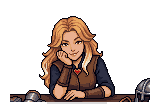
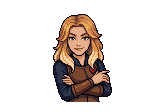
WIP: библиотека в ратуше (Жанет — окно-справочник о механике, ряды полок, студенты), окна Полли/Захарии/Шахбану — свои позы и эмоции за стойкой, бабушки на скамейке одной картинкой, столы в баре, фонтан и клумбы непроходимы
Claude-Session: https://claude.ai/code/session_01NZaKJV7VXAQHZfGwN3MbH5

Changed region(s): [[0.0625, 0.1071, 0.9375, 0.9375]]

diff --git a/src/story/dialogues.js b/src/story/dialogues.js
@@ -2,7 +2,9 @@
 // Формат описан в src/dialogue.js. who — кто говорит (ключ из SPEAKERS), narrator — рассказчик без портрета.
 // mood — настроение для нарисованного портрета (у рыцаря: tired — прищур; nohelm — без шлема, НЕ использовать: лицо Найта — только пасхалка, решение владельца; без mood — обычный), см. assets/portraits/.
 
-import { TOWNSFOLK } from '../config.js';
+import { TOWNSFOLK, ITEMS } from '../config.js';
+// раздел вещи для справочника Жанет: слот, а у вещей без слота — «припасы» (use) и «артефакты»
+const ITEMS_SLOT = id => ITEMS[id].slot ?? (ITEMS[id].use ? 'use' : ITEMS[id].artifact ? 'artifact' : null);
 
 export const SPEAKERS = {
   narrator: { name: '' },
@@ -58,6 +60,10 @@ export const DIALOGUES = {
   t_vil_15: [{ who: 'town_vil_15', text: '[черновик] Всё есть, а чего нет — завтра будет.' }],
   t_vils_0: [{ who: 'town_vils_0', text: '[черновик] Сядь, отдохни. Ноги не казённые.' }],
   t_vils_1: [{ who: 'town_vils_1', text: '[черновик] Тише, я на самом интересном месте.' }],
+  // бабушки на скамейке у ратуши — одна картинка (владелец 23.10: «чтобы сидели нормально на скамейке»)
+  t_vils_pair: [{ who: 'town_vils_pair', text: '[черновик] — Опять рыцарь. — Ты посмотри, латы-то нечищеные! — В наше время рыцари хоть кланялись…' }],
+  // студент в библиотеке (владелец 23.10)
+  t_lib_student: [{ who: 'town_lib_student', text: 'Я не понимаю ничего в экспериментальной магии 2. Ненавижу проклятодинамику.' }],
   t_vils_2: [{ who: 'town_vils_2', text: '[черновик] Хороший день. Даже фонтан сегодня журчит веселее.' }],
   t_vils_3: [{ who: 'town_vils_3', text: '[черновик] В мои годы рыцари были пониже. И повежливее.' }],
   t_vils_4: [{ who: 'town_vils_4', text: '[черновик] Жду кое-кого. Уже третий час.' }],
@@ -669,7 +675,9 @@ export const SHOPS = {
   // оружейная (владелец, 22.10): Полли — оружие и доспехи, её знак — червонный доспех; Захария — артефакты, крестовые сапоги.
   // Реплики — [черновик] (тексты камео напишет владелец)
   polly: {
-    art: { scene: 'assets/shop/armory_scene.png', bust: 'assets/shop/polly', moods: ['default'], flames: [[22, 30, 0.9], [90, 70, 0.6]] },
+    // окно (владелец 23.10): своя поза для разговора — руки скрещены; стойка (fg) — поверх, Полли за ней
+    art: { scene: 'assets/shop/armory_scene.png', fg: 'assets/shop/armory_fg.png', at: [48, 129], bust: 'assets/shop/polly', moods: ['default', 'happy', 'sulky', 'blink'], flames: [[22, 30, 0.9], [90, 70, 0.6]] },
+    moods: { bought: 'happy', poor: 'sulky', owned: 'sulky', soon: 'sulky' },   // здоровается с усмешкой (обычное лицо), смеётся на покупке
     hello: '[черновик] О, рыцарь в потёртых латах! Заходи — подберём тебе что-нибудь, в чём не стыдно умирать. Шучу. Не умирай.',
     menu: '[черновик] Что смотрим?',
     items: [
@@ -691,7 +699,9 @@ export const SHOPS = {
     bye: '[черновик] Заходи, если что-то сломаешь. Или кого-то.',
   },
   zacharia: {
-    art: { scene: 'assets/shop/armory_scene.png', bust: 'assets/shop/zacharia', moods: ['default'], flames: [[22, 30, 0.9], [60, 150, 0.7]] },
+    // окно: Захария показывает светящийся амулет; смеётся, удивляется
+    art: { scene: 'assets/shop/armory_scene.png', fg: 'assets/shop/armory_fg.png', at: [48, 129], bust: 'assets/shop/zacharia', moods: ['default', 'happy', 'surprised', 'blink'], flames: [[22, 30, 0.9], [60, 150, 0.7]] },
+    moods: { hello: 'happy', bought: 'happy', poor: 'surprised', owned: 'surprised' },
     hello: '[черновик] А-а, гость! Смотри, только не дыши на кристаллы — они обидчивые.',
     menu: '[черновик] Что тебе приглянулось?',
     items: [
@@ -713,7 +723,9 @@ export const SHOPS = {
   },
   // кофейня «Vertrauen» (владелец): окно как у Лики — виды кофе, бусты, пара чаёв, матча. Бариста Шахбану — облик временный
   cafe: {
-    art: { scene: 'assets/shop/cafe_scene.png', bust: 'assets/shop/shahbanu', moods: ['default'], flames: [[200, 60, 0.8]] },
+    // окно: Шахбану с чашкой за стойкой (кофейники стойки — поверх)
+    art: { scene: 'assets/shop/cafe_scene.png', fg: 'assets/shop/cafe_fg.png', at: [62, 101], bust: 'assets/shop/shahbanu', moods: ['default', 'happy', 'worried', 'blink'], flames: [[200, 60, 0.8]] },
+    moods: { hello: 'happy', bought: 'happy', poor: 'worried' },
     hello: '[черновик] Добро пожаловать в «Vertrauen»! Сегодня кофе крепкий, а люди — добрые. Ну, почти все.',
     menu: '[черновик] Что тебе налить?',
     items: [
@@ -732,6 +744,48 @@ export const SHOPS = {
     ],
     bought: '[черновик] Держи, горячее!', owned: '[черновик] Уже есть.', poor: '[черновик] Не хватает. Приходи ещё — я подожду.', soon: '[черновик] Скоро будет.',
     bye: '[черновик] Заходи ещё!',
+  },
+  // библиотека в ратуше (владелец 23.10): библиотекарша Жанет ничего не продаёт — рассказывает о механике игры
+  // (разделы — guide; вещи из ITEMS и ITEM_TEXTS, приёмы и бой — facts). Реплики — [черновик]
+  janet: {
+    art: { scene: 'assets/shop/library_scene.png', fg: 'assets/shop/library_fg.png', at: [48, 161], bust: 'assets/shop/janet', moods: ['default', 'happy', 'surprised', 'blink'], flames: [[33, 108, 0.8], [93, 162, 0.7], [44, 188, 1.0], [187, 52, 1.0]] },
+    hello: '[черновик] Тсс… это библиотека. Ой, рыцарь! Нечасто вы к нам заходите. Чем помочь?',
+    menu: '[черновик] О чём рассказать?',
+    unknown: '[черновик] Об этом в книгах пока пусто. Найдёшь — приходи, разберёмся вместе.',
+    moods: { hello: 'surprised', unknown: 'surprised' },
+    items: [],
+    setText: {
+      marauder: '[черновик] Мародёры носили одно и то же — платок, куртку и мягкие сапоги. Собери всё — получишь их снаряжение, в нём шаг легче.',
+      aces: '[черновик] Четыре туза — старая история. Знаки разошлись по мастерам города. Говорят, вместе они что-то значат.',
+    },
+    guide: [
+      { id: 'g_weapon', name: 'Оружие', icon: 'sword_old', intro: '[черновик] Оружие. Меч, рапира, кинжал — у каждого свой нрав. Смена — Q.', has: id => ITEMS_SLOT(id) === 'weapon' },
+      { id: 'g_armor', name: 'Броня', icon: 'armor_old', intro: '[черновик] Броня даёт щит: он принимает удар первым и сам восстанавливается, пока тебя не бьют.', has: id => ['armor', 'head', 'feet'].includes(ITEMS_SLOT(id)) },
+      { id: 'g_amulet', name: 'Амулеты и артефакты', icon: 'diamond_ace', intro: '[черновик] Амулеты — моя любимая полка. Каждый работает по-своему.', has: id => ['amulet', 'artifact'].includes(ITEMS_SLOT(id)) },
+      { id: 'g_sets', name: 'Комплекты', icon: 'mar_jacket', intro: '[черновик] Некоторые вещи сильнее вместе. Вот что я знаю о комплектах.', mood: 'happy', sets: true },
+      { id: 'g_skills', name: 'Навыки и заклинания', icon: 'skill_cleave', intro: '[черновик] Навыки учат по свиткам. Колесо мыши — приём, у каждого своя перезарядка.', has: id => ['skill', 'spell'].includes(ITEMS_SLOT(id)) || /^scroll_/.test(id) },
+      { id: 'g_use', name: 'Припасы', icon: 'potion', intro: '[черновик] Зелья, бинты и кофе Шахбану. Пить — H.', has: id => ITEMS_SLOT(id) === 'use' },
+      { id: 'g_fight', name: 'Бой', icon: 'helm_old', intro: '[черновик] О бое у нас целый стеллаж. Самое главное — высота удара.', facts: [
+        { name: 'Высота удара', text: '[черновик] Курсор выше рыцаря — удар сверху, ниже — снизу, рядом — посередине. Враг перед ударом показывает свою высоту значком.' },
+        { name: 'Защита и парирование', text: '[черновик] Держи ПКМ — защита на выбранной высоте. Поставишь её в самый миг удара — идеальное парирование: враг открыт.' },
+        { name: 'Рывок и кувырок', text: '[черновик] Пробел — рывок. От удара можно уйти назад или перекатиться.' },
+        { name: 'Приём оружия', text: '[черновик] Колесо мыши — особый приём: у меча вихрь, у рапиры восьмёрка. Потом приём отдыхает четыре секунды.' },
+        { name: 'Жизнь и щит', text: '[черновик] Щит от брони принимает урон первым и сам восстанавливается, если тебя какое-то время не бьют. Жизнь — нет: её лечат зелья, бинты и отдых.' },
+        { name: 'Места отдыха', text: '[черновик] Скамья, диван, камин, костёр — сядь, и раны затянутся. Там же игра сохраняется.' },
+      ] },
+    ],
+    talk: [
+      { topic: '[черновик] Кто ты?', lines: [
+        { text: '[черновик] Жанет. Я здесь библиотекарь — вот уже третий год.', mood: 'happy' },
+        { text: '[черновик] Если чего-то не знаешь — спроси. Если и я не знаю — значит, найдём вместе.' },
+      ] },
+      { topic: '[черновик] Что это за место?', lines: [
+        { text: '[черновик] Библиотека при ратуше. Приём в ратуше — по средам, а книги — каждый день.' },
+        { text: '[черновик] Студенты сидят тут до ночи. Особенно перед экзаменами по экспериментальной магии.', mood: 'happy' },
+      ] },
+    ],
+    bought: '', owned: '', poor: '', soon: '',
+    bye: '[черновик] Возвращайся. И не загибай уголки страниц!',
   },
 };
 

diff --git a/src/main.js b/src/main.js
@@ -2864,7 +2864,7 @@ function update(dt) {
     const npc = nearNpc();
     const d = game.doorNear;
     const near = nearChest();
-    hint(near ? (near.pick ? `E — взять: ${ITEMS[near.pick].name}` : 'E — открыть сундук') : npc ? `E — ${npc.def.shop ? 'лавка' : npc.def.cat && game.flags.fujin_fed ? 'погладить' : npc.def.verb ?? 'говорить'}: ${npc.def.alias && !game.flags[npc.def.known] ? npc.def.alias : npc.def.name}` : game.pathNear ? pathHint(game.pathNear) : d ? (d.locked ? `${d.locked}` : d.fall || d.stairs ? `W — ${d.name}` : `W у двери — войти: ${d.name ?? 'дверь'}`) : nearAltar() ? (canSanctify() ? 'E — освятить воду в чаше' : game.flags[nearAltar().altar] && cupOnAltar() ? 'E — взять чашу с алтаря' : game.flags[nearAltar().altar] ? 'E — осмотреть: алтарь' : hasItem('silver_cup') ? 'E — поставить Серебряную чашу на алтарь' : 'E — осмотреть: алтарь') : nearRest() ? `E — отдохнуть ${nearRest().rest.name} (сохранение)` : nearLook()?.fill && hasItem('silver_cup') && !game.flags[nearLook().fill] ? 'E — набрать воды в чашу' : nearLook() ? `E — осмотреть: ${nearLook().name}${nearLook().type === 'cracks' ? ' · ЛКМ — ударить' : ''}` : hintWalk(), nearVibe());
+    hint(near ? (near.pick ? `E — взять: ${ITEMS[near.pick].name}` : 'E — открыть сундук') : npc ? `E — ${npc.def.shop ? npc.def.verb ?? 'лавка' : npc.def.cat && game.flags.fujin_fed ? 'погладить' : npc.def.verb ?? 'говорить'}: ${npc.def.alias && !game.flags[npc.def.known] ? npc.def.alias : npc.def.name}` : game.pathNear ? pathHint(game.pathNear) : d ? (d.locked ? `${d.locked}` : d.fall || d.stairs ? `W — ${d.name}` : `W у двери — войти: ${d.name ?? 'дверь'}`) : nearAltar() ? (canSanctify() ? 'E — освятить воду в чаше' : game.flags[nearAltar().altar] && cupOnAltar() ? 'E — взять чашу с алтаря' : game.flags[nearAltar().altar] ? 'E — осмотреть: алтарь' : hasItem('silver_cup') ? 'E — поставить Серебряную чашу на алтарь' : 'E — осмотреть: алтарь') : nearRest() ? `E — отдохнуть ${nearRest().rest.name} (сохранение)` : nearLook()?.fill && hasItem('silver_cup') && !game.flags[nearLook().fill] ? 'E — набрать воды в чашу' : nearLook() ? `E — осмотреть: ${nearLook().name}${nearLook().type === 'cracks' ? ' · ЛКМ — ударить' : ''}` : hintWalk(), nearVibe());
   } else if (game.arena?.open) {
     const d = game.doorNear;
     hint(d ? (d.locked ? d.locked : d.fall || d.stairs ? `W — ${d.name}` : `W у двери — войти: ${d.name ?? 'дверь'}`) : game.time - game.arena.t0 < 4 ? 'Можно не драться — проскочи рывком (пробел) сквозь врагов' : '');
@@ -2892,7 +2892,8 @@ function update(dt) {
   const px0 = p.x, pz0 = p.z;
   p.update(dt, controls());
   // мебель, сквозь которую не пройти (block: [полуширина, глубина] у предмета; бар — вид сверху, v0.98): шаг назад по оси, что упёрлась
-  for (const pr of room().props ?? []) {
+  // blocks у комнаты — то же для нарисованного на картине (клумбы, кадки у ратуши): { x, z, block }
+  for (const pr of [...(room().props ?? []), ...(room().blocks ?? [])]) {
     if (!pr.block) continue;
     const inside = (x, z) => Math.abs(x - pr.x) < pr.block[0] && z > pr.z - pr.block[1] && z < pr.z + 2;
     if (!inside(p.x, p.z)) continue;
@@ -3978,7 +3979,7 @@ function artFor(id) {
   const a = SHOPS[id]?.art;
   if (shopArts[id]) return shopArts[id];
   const img = src => Object.assign(new Image(), { src });
-  const out = shopArts[id] = { scene: img(a?.scene ?? 'assets/shop/scene.png') };
+  const out = shopArts[id] = { scene: img(a?.scene ?? 'assets/shop/scene.png'), fg: a?.fg && img(a.fg) };
   for (const m of a?.moods ?? SHOP_MOODS) out[m] = img(`${a?.bust ?? 'assets/shop/lika'}_${m}.png`);
   return out;
 }
@@ -3994,7 +3995,9 @@ function drawShopScene(t) {
   const blink = (!sh.mood || sh.mood === 'default') && (t % 4.3) < 0.13;
   const bust = shopArt[blink ? 'blink' : sh.mood] ?? shopArt.default;
   const im = ok(bust) ? bust : shopArt.default;
-  if (ok(im)) c.drawImage(im, 48, 109 + (Math.sin(t * 1.8) > 0.6 ? -1 : 0));
+  const [bx, by] = sh.data.art?.at ?? [48, 109];   // где стоит продавец; стойка (fg) рисуется поверх — он за ней, а не перед
+  if (ok(im)) c.drawImage(im, bx, by + (Math.sin(t * 1.8) > 0.6 ? -1 : 0));
+  if (ok(shopArt.fg)) c.drawImage(shopArt.fg, 0, 0);
   // огонь свечей и фонаря дрожит, вокруг — тёплый свет
   c.save();
   c.globalCompositeOperation = 'lighter';
@@ -4068,6 +4071,7 @@ function shopView(view) {
 function shopOptions() {
   const sh = game.shop, d = sh.data;
   const back = { label: 'Назад', go: () => shopView('main') };
+  if (d.guide) return guideOptions(sh, d, back);
   if (sh.view === 'buy') return [
     ...d.items.map(it => {
       const item = ITEMS[it.id];
@@ -4085,6 +4089,37 @@ function shopOptions() {
   return [
     { label: 'Купить', go: () => shopView('buy') },
     { label: 'Поговорить', go: () => shopView('talk') },
+    { label: 'Уйти', go: closeShop },
+  ];
+}
+
+// библиотекарша Жанет (владелец 23.10): ничего не продаёт — рассказывает о механике игры по разделам.
+// Вещи, которых рыцарь ещё не видел (нет в сумке и не продаются в лавках), — «???»: книги о них Жанет пока не нашла
+function guideSeen(id) {
+  return owns(id) || Object.values(SHOPS).some(s => s.items?.some(it => it.id === id));
+}
+function guideEntries(cat) {
+  if (cat.facts) return cat.facts.map(f => ({ label: f.name, icon: f.icon, text: f.text }));
+  if (cat.sets) return Object.entries(SETS).map(([k, st]) => {
+    const seen = st.pieces.some(guideSeen);
+    return { label: seen ? st.name : '???', icon: seen ? st.pieces[0] : null, text: seen ? `${game.shop.data.setText?.[k] ?? ''} Части: ${st.pieces.map(id => ITEMS[id].name).join(', ')}.${st.worn ? ' Вместе — ' + st.worn + '.' : ''}` : null };
+  });
+  return Object.keys(ITEMS).filter(cat.has).map(id => {
+    const seen = guideSeen(id);
+    return { label: seen ? ITEMS[id].name : '???', icon: seen ? id : null, text: seen ? (ITEM_TEXTS[id] ?? ITEMS[id].name) : null };
+  });
+}
+function guideOptions(sh, d, back) {
+  if (sh.view === 'talk') {
+    if (sh.queue?.length) return [{ label: 'Дальше ▸', go: nextShopLine }, { label: 'Хватит', go: () => shopView('talk') }];
+    return [...d.talk.map(t => ({ label: t.topic, go: () => { sh.queue = t.lines.slice(); nextShopLine(); } })), back];
+  }
+  const cat = d.guide.find(c => c.id === sh.view);
+  if (cat) return [...guideEntries(cat).map(e => ({ label: e.label, icon: e.icon, muted: !e.text, guide: true,
+    go: () => shopSay(e.text ?? d.unknown, e.text ? null : d.moods?.unknown) })), back];
+  return [
+    { label: 'Поговорить', go: () => shopView('talk') },
+    ...d.guide.map(c => ({ label: c.name, icon: c.icon, go: () => { shopView(c.id); shopSay(c.intro, c.mood); } })),
     { label: 'Уйти', go: closeShop },
   ];
 }
@@ -4111,7 +4146,7 @@ function buyItem(it) {
 }
 
 function renderShop() {
-  ui.shopCoins.textContent = `Монеты: ${game.coins}`;
+  ui.shopCoins.textContent = game.shop.data.guide ? '' : `Монеты: ${game.coins}`;
   ui.shopMenu.innerHTML = '';
   ui.shopMenu.classList.toggle('dense', shopOptions().length > 8);
   shopOptions().forEach((o, i) => {
@@ -4119,7 +4154,7 @@ function renderShop() {
     b.type = 'button';
     const picked = o.hover && game.shop.sel === i;
     b.className = (o.muted ? 'muted' : '') + (picked ? ' sel' : '');
-    const right = picked && !o.muted ? `купить · ${o.right}` : o.right;
+    const right = picked && !o.muted && o.right ? `купить · ${o.right}` : o.right;
     b.innerHTML = `<span class="item-name">${itemIcon(o.icon)}${i + 1}. ${o.label}</span>${right ? `<span>${right}</span>` : ''}`;
     // v0.91 (отзыв тестера: «нажала — сразу купилось»): товар — первый клик выбирает и показывает описание, второй — покупка
     b.addEventListener('pointerdown', e => { e.stopPropagation(); e.preventDefault(); shopPick(o, i); });
@@ -5593,4 +5628,4 @@ requestAnimationFrame(frame);
 
 // для автотестов в браузере
 window.knightNight = game;
-window.knightNightDebug = { groundY, input, ROOMS, bgFor, musicInfo, startTalk, readPage };   // для ботов-тестеров
+window.knightNightDebug = { groundY, input, ROOMS, bgFor, musicInfo, startTalk, readPage, openShop: (shop, name) => openShop({ def: { shop, name } }) };   // для ботов-тестеров

diff --git a/src/config.js b/src/config.js
@@ -579,6 +579,8 @@ export const TOWNSFOLK = [
   ['vils_13', 'Горожанка', 1],
   ['vils_14', 'Подмастерье', 1],
   ['vils_15', 'Старушка', 1],
+  ['vils_pair', 'Бабушки', 1],      // две бабушки на скамейке — одна картинка со скамьёй (владелец 23.10)
+  ['lib_student', 'Студент', 1],    // студент в библиотеке над бумагами (владелец 23.10)
 ];
 for (const [img, name, sit] of TOWNSFOLK) NPC_TYPES['t_' + img] = { name, img, talk: 't_' + img, still: !!sit };
 // камео (v0.98): спрайт в позе по месту + портрет в разговоре (по фото владельца; одежда — под средневековье)
@@ -595,6 +597,8 @@ Object.assign(NPC_TYPES, {
   lika_town: { name: 'Лика', face: 'lika', short: true, bob: true, coat: true, sprite: 'lika', talk: 'lika_town',
     colors: { armor: '#574f44', armorDark: '#3a352d', tabard: '#797260', belt: '#2d2a24', helm: '#e7bd9e', visor: '#2b2e38', hair: '#2b2e38', hairLight: '#3d4150', blush: '#bb6554', boots: '#2d2a24', blade: '#b9c2cc', hilt: '#6b4532' } },
   cam_lucia: { name: 'Люция', img: 'cam_lucia_tel', imgNight: 'cam_lucia_up', imgDx: 26, still: true, faceRight: true, talk: 'lucia_talk' },   // Люция у телескопа — одна картинка с телескопом (правка эскиза рядом с рыцарем)
+  // библиотекарша Жанет (владелец 23.10, по фото): у стола в библиотеке; E — окно-справочник о механике игры
+  janet: { name: 'Жанет', img: 'cam_janet', still: true, faceRight: true, shop: 'janet', verb: 'говорить' },
   cam_merc: { name: 'Виктор', img: 'cam_merc', still: true, faceRight: true, talk: 'merc_talk' },   // сюжетный: побочные задания позже
 });
 
@@ -1171,7 +1175,7 @@ export const ROOMS = {
     doors: [
       { id: 'bar', x: 246, kind: 'painted', leaf: [236, 86, 21, 34], mat: { color: '#8a3b2e', dark: '#4a1f1a', light: '#c9774a' }, to: 'town_bar', at: { path: 'out' }, name: 'Бар Härtezeichen' },
       { id: 'armory', x: 709, kind: 'painted', leaf: [694, 86, 30, 34], mat: { color: '#3b4a6a', dark: '#1f2638', light: '#8a9ac0', w: 32 }, to: 'town_armory', name: 'Оружейная' },
-      { id: 'hall', x: 481, kind: 'painted', leaf: [471, 84, 21, 30], locked: 'Ратуша закрыта: «Приём — по средам»' , mat: { color: '#7a2a2a', dark: '#3a1414', light: '#c0a060', w: 28 }, to: 'town_square', name: 'Ратуша' },
+      { id: 'hall', x: 481, kind: 'painted', leaf: [471, 84, 21, 30], mat: { color: '#7a2a2a', dark: '#3a1414', light: '#c0a060', w: 28 }, to: 'town_library', at: { path: 'out' }, name: 'Ратуша · библиотека' },
     ],
     paths: [
       { id: 'down', x: [36, 96], z: [26, 44], keys: ['depthOut'], name: 'Лестница вниз, к развилке', to: 'town_cross', at: { path: 'up' }, blend: true,
@@ -1184,20 +1188,22 @@ export const ROOMS = {
       { type: 'objimg', img: 'sign_bar', x: 247, y: 91 },   // вывеска бара: табличка PixelLab + надпись шрифтом Pirata One (OFL)
       { type: 'objimg', img: 'sign_flowers', x: 132, y: 88 },   // кофейня переехала на набережную — у дома слева теперь цветочная лавка
     ],
+    // клумбы и кадки с деревьями у ратуши нарисованы на картине — по ним не ходят (владелец 23.10)
+    blocks: [{ x: 432, z: 10, block: [18, 10] }, { x: 531, z: 10, block: [16, 10] }, { x: 409, z: 9, block: [7, 9] }, { x: 554, z: 9, block: [8, 9] }],
     props: [
       { type: 'bar_table', x: 292, z: 5 },   // второй столик бара снаружи
       { type: 'pub_table', x: 204.5, z: 5.4 },   // столик Иэна и Ксандры
-      { type: 'fountain', x: 481, z: 26 },   // посередине площади, перед ратушей (владелец)
-      { type: 'town_bench', x: 380, z: 4 }, { type: 'town_bench', x: 790, z: 4 },
+      { type: 'fountain', x: 481, z: 26, block: [19, 11] },   // посередине площади, перед ратушей (владелец); сквозь не пройти
+      { type: 'town_bench', x: 790, z: 4 },
       { type: 'streetlamp', x: 320, z: 44 }, { type: 'streetlamp', x: 640, z: 44 },   // фонари на стыках кусков картины
     ],
     npcs: [
       { type: 'cam_glasses', x: 187, z: 5.5, facing: 1 }, { type: 'cam_redhead', x: 222, z: 5.6, facing: -1 },   // Иэн и Ксандра у бара
       { type: 't_vils_8', x: 280, z: 5.5, facing: 1 }, { type: 't_vils_5', x: 300, z: 5.5 },
-      { type: 't_vils_1', x: 374, z: 4.5 }, { type: 't_vils_6', x: 388, z: 4.5 }, { type: 't_vils_13', x: 790, z: 4.5 },
+      { type: 't_vils_pair', x: 381, z: 4.5 }, { type: 't_vils_13', x: 790, z: 4.5 },
       { type: 't_vil_2', x: 300, z: 26 }, { type: 't_vil_7', x: 560, z: 30 }, { type: 't_vil_9', x: 620, z: 34 },
       { type: 't_vil_12', x: 600, z: 20 }, { type: 't_vil_0', x: 840, z: 14 }, { type: 't_vil_3', x: 140, z: 20 },
-      { type: 't_folk_1', x: 540, z: 12 }, { type: 't_folk_3', x: 108, z: 8 }, { type: 't_folk_11', x: 660, z: 24 }, { type: 't_folk_14', x: 318, z: 8 },
+      { type: 't_folk_1', x: 584, z: 16 }, { type: 't_folk_3', x: 108, z: 8 }, { type: 't_folk_11', x: 660, z: 24 }, { type: 't_folk_14', x: 318, z: 8 },
       { type: 'lika_town', x: 744, z: 6, facing: -1 },   // Лика — у входа в оружейную
     ],
   },
@@ -1214,12 +1220,35 @@ export const ROOMS = {
     props: [
       { type: 'bar2_table0', x: 67, z: 37, block: [16, 10] }, { type: 'bar2_table1', x: 253, z: 35, block: [16, 10] },
       { type: 'bar2_table2', x: 117, z: 64, block: [16, 10] }, { type: 'bar2_table3', x: 207, z: 65, block: [16, 10] },
+      // ещё столики (владелец 23.10: «бар пустоватый»)
+      { type: 'bar2_table1', x: 36, z: 76, block: [16, 10] }, { type: 'bar2_table0', x: 288, z: 76, block: [16, 10] }, { type: 'bar2_table2', x: 282, z: 14, block: [16, 10] },
     ],
     npcs: [
       { type: 'bartender', x: 165, z: 0, lift: 25 },   // за стойкой
       { type: 'cam_merc', x: 86, z: 1, facing: 1 },   // Виктор — у стойки слева
       { type: 't_vils_12', x: 244, z: 35.5, facing: 1 }, { type: 't_vils_2', x: 263, z: 35.5 },
       { type: 't_vils_14', x: 108, z: 64.5, facing: 1 }, { type: 't_vils_4', x: 198, z: 65.5, facing: 1 }, { type: 't_vils_8', x: 217, z: 65.5 },
+      { type: 't_vils_10', x: 27, z: 76.5, facing: 1 }, { type: 't_vils_3', x: 297, z: 76.5 }, { type: 't_vils_7', x: 291, z: 14.5 },
+    ],
+  },
+  // библиотека в ратуше (владелец 23.10): зал как бар — картина пустого зала (PixelLab, полки по задней стене, стол
+  // библиотекаря справа), ряды полок и столы — отдельные предметы (block: между рядами ходить, сквозь — нет).
+  // Жанет у своего стола — окно-справочник о механике (SHOPS.janet); студенты за столами
+  town_library: {
+    name: 'Библиотека', chapter: 2, tiles: 'town_library', tileCount: 1, length: 320, day: true, ceiling: false, torches: [],
+    floorTop: 60, depth: 110, tileLine: 120,
+    paths: [{ id: 'out', x: [8, 36], z: [0, 10], keys: ['depthIn'], name: 'Дверь на площадь', to: 'town_square', at: { door: 'hall' },
+      leaf: [11, 20, 18, 34], pts: [[21, 64, 0.97], [21, 58, 0.93], [21, 52, 0.9]] }],
+    props: [
+      { type: 'lib_shelf', x: 78, z: 26, block: [23, 7] }, { type: 'lib_shelf', x: 134, z: 26, block: [23, 7] },
+      { type: 'lib_shelf', x: 78, z: 84, block: [23, 7] }, { type: 'lib_shelf', x: 134, z: 84, block: [23, 7] },
+      { type: 'lib_table', x: 206, z: 34, block: [14, 7] }, { type: 'lib_table', x: 206, z: 86, block: [14, 7] },
+    ],
+    npcs: [
+      { type: 'janet', x: 248, z: 6 },
+      { type: 't_vils_1', x: 197, z: 34.5, facing: 1 },       // читательница: «Тише, я на самом интересном месте»
+      { type: 't_vils_9', x: 215, z: 86.5 },
+      { type: 't_lib_student', x: 272, z: 64 },                // студент над бумагами — со своим столом
     ],
   },
   // оружейная — картина, как покои принцессы (владелец): два продавца на выбор — Полли (оружие и доспехи), Захария (артефакты)

diff --git a/src/background.js b/src/background.js
@@ -21,7 +21,7 @@ const DECOR_IMG = {
 const PROP_IMG = { barrel: 1, crate: 2, sack: 1, chest: 1, bones: 2,
   sofa: 1, table: 1, chair: 1, armchair: 1, pew: 1, bench: 1, desk: 1, stool: 1, guardtable: 1, stall: 1, rug: 1,
   bedroll: 1, pot: 1, letter: 1, candles: 1, lute: 1, logbook: 1, bouquet: 1, loot: 1, fabric: 1, papers: 1, bookpile: 1, tripod: 1, pack: 1 };
-export const OBJECTS = ['prop_fountain', 'prop_streetlamp', 'prop_pub_table', 'sign_bar', 'prop_bar2_table0', 'prop_bar2_table1', 'prop_bar2_table2', 'prop_bar2_table3', 'folk_0', 'folk_1', 'folk_2', 'folk_3', 'folk_4', 'folk_5', 'folk_6', 'folk_7', 'folk_8', 'folk_9', 'folk_10', 'folk_11', 'folk_12', 'folk_13', 'folk_14', 'folk_15', 'cam_ian', 'cam_ian_buzz', 'cam_xandra', 'cam_logpair', 'cam_logpair_up', 'cam_lucia_tel', 'cam_lucia_up', 'cam_stasya', 'knight_sit_fire', 'sign_flowers', 'cam_merc', 'prop_town_bench', 'prop_bar_table', 'prop_telescope', 'prop_log_seat', 'npc_bartender', 'vil_0', 'vil_1', 'vil_2', 'vil_3', 'vil_4', 'vil_5', 'vil_6', 'vil_7', 'vil_8', 'vil_9', 'vil_10', 'vil_11', 'vil_12', 'vil_13', 'vil_14', 'vil_15', 'vils_0', 'vils_1', 'vils_2', 'vils_3', 'vils_4', 'vils_5', 'vils_6', 'vils_7', 'vils_8', 'vils_9', 'vils_10', 'vils_12', 'vils_13', 'vils_14', 'vils_15',   // город главы 2 (v0.98): предметы площади, горожане (временные — потом камео)
+export const OBJECTS = ['prop_fountain', 'prop_streetlamp', 'prop_pub_table', 'prop_lib_shelf', 'prop_lib_table', 'vils_pair', 'lib_student', 'cam_janet', 'sign_bar', 'prop_bar2_table0', 'prop_bar2_table1', 'prop_bar2_table2', 'prop_bar2_table3', 'folk_0', 'folk_1', 'folk_2', 'folk_3', 'folk_4', 'folk_5', 'folk_6', 'folk_7', 'folk_8', 'folk_9', 'folk_10', 'folk_11', 'folk_12', 'folk_13', 'folk_14', 'folk_15', 'cam_ian', 'cam_ian_buzz', 'cam_xandra', 'cam_logpair', 'cam_logpair_up', 'cam_lucia_tel', 'cam_lucia_up', 'cam_stasya', 'knight_sit_fire', 'sign_flowers', 'cam_merc', 'prop_town_bench', 'prop_bar_table', 'prop_telescope', 'prop_log_seat', 'npc_bartender', 'vil_0', 'vil_1', 'vil_2', 'vil_3', 'vil_4', 'vil_5', 'vil_6', 'vil_7', 'vil_8', 'vil_9', 'vil_10', 'vil_11', 'vil_12', 'vil_13', 'vil_14', 'vil_15', 'vils_0', 'vils_1', 'vils_2', 'vils_3', 'vils_4', 'vils_5', 'vils_6', 'vils_7', 'vils_8', 'vils_9', 'vils_10', 'vils_12', 'vils_13', 'vils_14', 'vils_15',   // город главы 2 (v0.98): предметы площади, горожане (временные — потом камео)
   'door_wood', 'door_iron', 'door_bars', 'door_hole', 'prop_chest_open', 'bonepile', 'stairs', 'balustrade', 'stainedglass', 'prop_altar', 'lika_sit', 'lika_sit_1', 'lika_wave', 'prop_campfire', 'prop_campfire_pot', 'prop_cup', 'slime', 'slime_squash', 'slime_stretch', 'decor_chandelier', 'gate_bars', 'gate_door', 'decor_portrait_king', 'decor_portrait_mage', 'decor_sigil', 'decor_cracked', 'balcony_cliff', 'prop_candles_out', 'cat_sit', 'cat_sit_1', 'cat_sleep', 'cat_loaf', 'cat_lounge', 'cat_side', 'cat_groom', 'cat_stretch', 'cat_stand', 'cat_belly', 'knight_sit_seat', 'knight_sit_ground', 'priest_kneel', 'maid_ghost',
   ...Object.entries(PROP_IMG).flatMap(([t, n]) => Array.from({ length: n }, (_, i) => 'prop_' + t + (i ? '_' + i : ''))),
   ...Object.entries(DECOR_IMG).flatMap(([t, [n]]) => Array.from({ length: n }, (_, i) => 'decor_' + t + (i ? '_' + i : '')))];
@@ -858,7 +858,7 @@ function campfireFlames(g, x, gy, time) {
   }
 }
 
-const TOWN_PROPS = new Set(['fountain', 'streetlamp', 'pub_table', 'town_bench', 'bar_table', 'telescope', 'log_seat', 'bar2_table0', 'bar2_table1', 'bar2_table2', 'bar2_table3']);
+const TOWN_PROPS = new Set(['fountain', 'streetlamp', 'pub_table', 'lib_shelf', 'lib_table', 'town_bench', 'bar_table', 'telescope', 'log_seat', 'bar2_table0', 'bar2_table1', 'bar2_table2', 'bar2_table3']);
 export function drawProp(g, type, x, gy, opened = false, time = 0, seed = 0) {
   x = Math.round(x);
   if ((type === 'loot' || type === 'cup') && opened) return;   // подобрали
